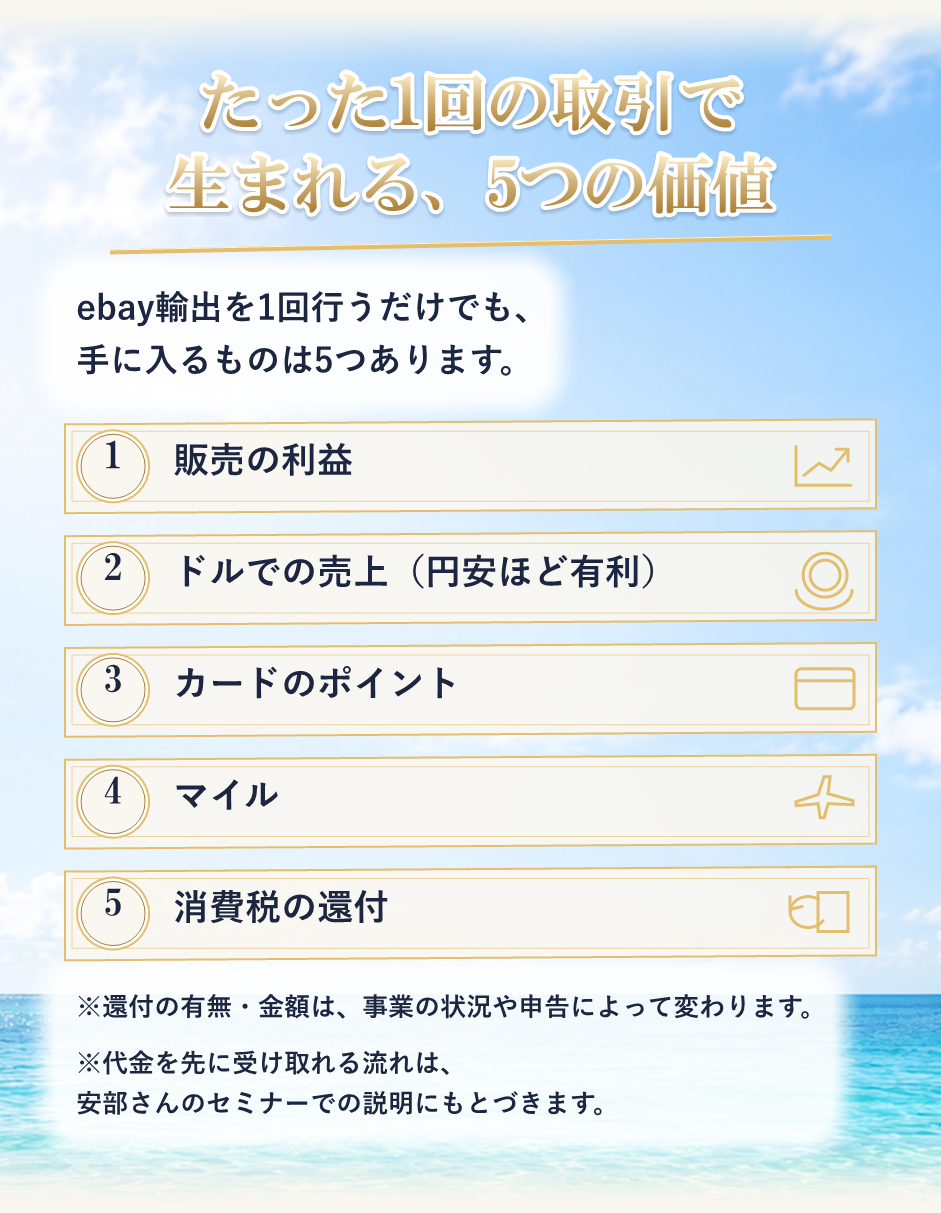
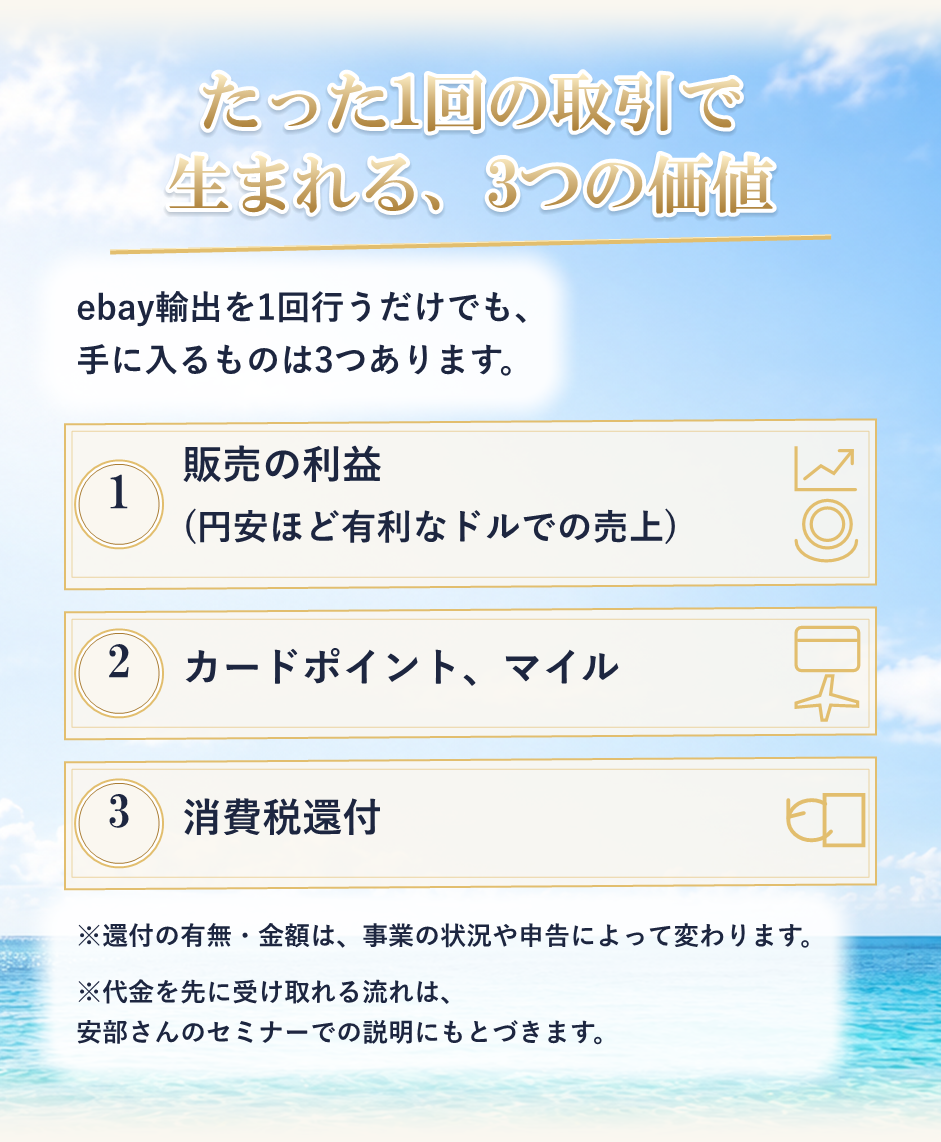
ebay-seminar-lp-2: 特典の表紙を入れる・5つの価値を3つに（05・14）

diff --git a/ebay-seminar-lp-2/index.html b/ebay-seminar-lp-2/index.html
@@ -6,7 +6,7 @@
 .v3 .cta-card{background:radial-gradient(ellipse at 4% 0%,#dceff8b0,transparent 45%),radial-gradient(ellipse at 95% 100%,#b8deec70,transparent 45%),#fbf6ee;border:1px solid #169aa66b;border-radius:18px 24px 20px 28px;box-shadow:0 0 16px 5px #169aa610}.v3 .cta h2{font-family:"Klee One","UD デジタル 教科書体 NK","Yu Mincho",serif;font-weight:600;color:#1b2f5b}.legal-note{padding:10px 24px 6px}.footer{padding:12px 22px 28px;text-align:center;font-size:12px;line-height:2.2;overflow-wrap:break-word}.footer a{color:inherit;text-underline-offset:4px}
 .floating-cta{position:fixed;left:50%;bottom:max(14px,env(safe-area-inset-bottom));transform:translateX(-50%);z-index:20;width:min(92vw,390px);display:block}.floating-cta[hidden]{display:none}
 @media(prefers-reduced-motion:reduce){html{scroll-behavior:auto}}
-</style></head><body class="v2"><main class="lp"><div class="hero"><img src="images/01-first-view-C5-03.png" alt="稼ぎながら、無料で世界を飛び回る！" width="941" height="1672" fetchpriority="high"><a class="fv-link" href="#form1" aria-label="無料でセミナーに参加する" style="left:8.820403825717323%;top:91.62679425837321%;width:82.35919234856536%;height:5.861244019138756%"></a></div><section class="cta" id="form1" aria-labelledby="heading1"><div class="cta-card"><h2 id="heading1" data-copy="CTA1-01">メールアドレスとLINE登録だけでOK！</h2><p class="note intro" data-copy="CTA1-02">※参加URLは、公式LINEでお届けします。</p><form action="#cta-link" method="get"><input data-copy="CTA1-03" type="email" name="email" required autocomplete="email" placeholder="メールアドレスを入力" aria-label="メールアドレスを入力"><button type="submit"><img src="images/cta-button_案2.png" alt="無料でセミナーに参加する" width="800" height="142" data-copy="CTA1-04"></button></form><p class="note" data-copy="CTA1-05">※ボタンを押すと、公式LINEの友だち追加の画面が開きます（パソコンの方はQRコードが表示されます）</p><p class="note free" data-copy="CTA1-06">※参加は無料です</p></div></section><img src="images/02-problem.png" alt="こんなこと、感じていませんか？" width="941" height="1417" class="section-image" decoding="async"><img src="images/03-numbers.png" alt="たとえば、毎月10万円をカードで払っても、貯まるのは1年で約12,000マイル。" width="941" height="1246" class="section-image" decoding="async"><img src="images/04-bridge.png" alt="円で買う側から、ドルで稼ぐ側へ。" width="941" height="1322" class="section-image" decoding="async"><img src="images/05-five-values.png" alt="たった1回の取引で生まれる、5つの価値" width="941" height="1213" class="section-image" decoding="async"><img src="images/06-walls-1.png" alt="物販は大変そう？そう思う方へ" width="941" height="1316" class="section-image" decoding="async"><img src="images/07-walls-2.png" alt="④ 出品が面倒" width="941" height="1009" class="section-image" decoding="async"><section class="cta" id="form2" aria-labelledby="heading2"><div class="cta-card"><h2 id="heading2" data-copy="CTA2-01">メールアドレスとLINE登録だけでOK！</h2><p class="note intro" data-copy="CTA2-02">※参加URLは、公式LINEでお届けします。</p><form action="#cta-link" method="get"><input data-copy="CTA2-03" type="email" name="email" required autocomplete="email" placeholder="メールアドレスを入力" aria-label="メールアドレスを入力"><button type="submit"><img src="images/cta-button_案2.png" alt="無料でセミナーに参加する" width="800" height="142" data-copy="CTA2-04"></button></form><p class="note" data-copy="CTA2-05">※ボタンを押すと、公式LINEの友だち追加の画面が開きます（パソコンの方はQRコードが表示されます）</p><p class="note free" data-copy="CTA2-06">※参加は無料です</p></div></section><img src="images/08-learn.png" alt="このセミナーで分かること" width="941" height="1564" class="section-image" decoding="async"><img src="images/09-for-whom.png" alt="こんな方のためのセミナーです" width="941" height="1355" class="section-image" decoding="async"><img src="images/10-instructor-1.png" alt="講師紹介" width="941" height="1527" class="section-image" decoding="async"><img src="images/11-instructor-2.png" alt="独自のAIシステムと実践型のサポート体制をつくり、未経験者でも段階的に成果を目指せる仕組みづくりに力を注いでいる。MBA（経営学修士）の知識を活かし、感覚だけに頼らず、データ分析・戦略・仕組み化の観点から指導している。" width="941" height="1199" class="section-image" decoding="async"><img src="images/12-instructor-masuda.png" alt="増田 和彦" width="941" height="1394" class="section-image" decoding="async"><img src="images/13-overview.png" alt="開催概要" width="941" height="1534" class="section-image" decoding="async"><img src="images/14-bonus.png" alt="参加特典" width="941" height="1150" class="section-image" decoding="async"><img src="images/15-steps.png" alt="参加までの流れ" width="941" height="1159" class="section-image" decoding="async"><section class="cta" id="form3" aria-labelledby="heading3"><div class="cta-card"><h2 id="heading3" data-copy="CTA3-01">メールアドレスとLINE登録だけでOK！</h2><p class="note intro" data-copy="CTA3-02">※参加URLは、公式LINEでお届けします。</p><form action="#cta-link" method="get"><input data-copy="CTA3-03" type="email" name="email" required autocomplete="email" placeholder="メールアドレスを入力" aria-label="メールアドレスを入力"><button type="submit"><img src="images/cta-button_案2.png" alt="無料でセミナーに参加する" width="800" height="142" data-copy="CTA3-04"></button></form><p class="note" data-copy="CTA3-05">※ボタンを押すと、公式LINEの友だち追加の画面が開きます（パソコンの方はQRコードが表示されます）</p><p class="note free" data-copy="CTA3-06">※参加は無料です</p></div></section><img src="images/16-faq-1.png" alt="よくある質問" width="941" height="1496" class="section-image" decoding="async"><img src="images/17-faq-2.png" alt="Q. セミナーで何かを買わされませんか？" width="941" height="1253" class="section-image" decoding="async"><img src="images/18-final-1.png" alt="最後に" width="941" height="1663" class="section-image" decoding="async"><img src="images/19-final-2.png" alt="まずは10月27日、話を聞くところから始めてみてください。" width="941" height="1001" class="section-image" decoding="async"><section class="cta" id="form4" aria-labelledby="heading4"><div class="cta-card"><h2 id="heading4" data-copy="CTA4-01">メールアドレスとLINE登録だけでOK！</h2><p class="note intro" data-copy="CTA4-02">※参加URLは、公式LINEでお届けします。</p><form action="#cta-link" method="get"><input data-copy="CTA4-03" type="email" name="email" required autocomplete="email" placeholder="メールアドレスを入力" aria-label="メールアドレスを入力"><button type="submit"><img src="images/cta-button_案2.png" alt="無料でセミナーに参加する" width="800" height="142" data-copy="CTA4-04"></button></form><p class="note" data-copy="CTA4-05">※ボタンを押すと、公式LINEの友だち追加の画面が開きます（パソコンの方はQRコードが表示されます）</p><p class="note free" data-copy="CTA4-06">※参加は無料です</p></div></section><p class="note legal-note" data-copy="NOTE-01">※ご紹介している実績は講師・受講生個人のものであり、成果を保証するものではありません。</p><footer class="footer" data-copy="FOOTER-01"><a href="#">特定商取引法に基づく表記</a>　｜　<a href="#">プライバシーポリシー</a></footer></main><a class="floating-cta" href="#form1" aria-label="無料でセミナーに参加する" hidden><img src="images/cta-button_案2.png" alt="" width="800" height="142" ></a><script>
+</style></head><body class="v2"><main class="lp"><div class="hero"><img src="images/01-first-view-C5-03.png" alt="稼ぎながら、無料で世界を飛び回る！" width="941" height="1672" fetchpriority="high"><a class="fv-link" href="#form1" aria-label="無料でセミナーに参加する" style="left:8.820403825717323%;top:91.62679425837321%;width:82.35919234856536%;height:5.861244019138756%"></a></div><section class="cta" id="form1" aria-labelledby="heading1"><div class="cta-card"><h2 id="heading1" data-copy="CTA1-01">メールアドレスとLINE登録だけでOK！</h2><p class="note intro" data-copy="CTA1-02">※参加URLは、公式LINEでお届けします。</p><form action="#cta-link" method="get"><input data-copy="CTA1-03" type="email" name="email" required autocomplete="email" placeholder="メールアドレスを入力" aria-label="メールアドレスを入力"><button type="submit"><img src="images/cta-button_案2.png" alt="無料でセミナーに参加する" width="800" height="142" data-copy="CTA1-04"></button></form><p class="note" data-copy="CTA1-05">※ボタンを押すと、公式LINEの友だち追加の画面が開きます（パソコンの方はQRコードが表示されます）</p><p class="note free" data-copy="CTA1-06">※参加は無料です</p></div></section><img src="images/02-problem.png" alt="こんなこと、感じていませんか？" width="941" height="1417" class="section-image" decoding="async"><img src="images/03-numbers.png" alt="たとえば、毎月10万円をカードで払っても、貯まるのは1年で約12,000マイル。" width="941" height="1246" class="section-image" decoding="async"><img src="images/04-bridge.png" alt="円で買う側から、ドルで稼ぐ側へ。" width="941" height="1322" class="section-image" decoding="async"><img src="images/05-five-values.png" alt="たった1回の取引で生まれる、3つの価値" width="941" height="1142" class="section-image" decoding="async"><img src="images/06-walls-1.png" alt="物販は大変そう？そう思う方へ" width="941" height="1316" class="section-image" decoding="async"><img src="images/07-walls-2.png" alt="④ 出品が面倒" width="941" height="1009" class="section-image" decoding="async"><section class="cta" id="form2" aria-labelledby="heading2"><div class="cta-card"><h2 id="heading2" data-copy="CTA2-01">メールアドレスとLINE登録だけでOK！</h2><p class="note intro" data-copy="CTA2-02">※参加URLは、公式LINEでお届けします。</p><form action="#cta-link" method="get"><input data-copy="CTA2-03" type="email" name="email" required autocomplete="email" placeholder="メールアドレスを入力" aria-label="メールアドレスを入力"><button type="submit"><img src="images/cta-button_案2.png" alt="無料でセミナーに参加する" width="800" height="142" data-copy="CTA2-04"></button></form><p class="note" data-copy="CTA2-05">※ボタンを押すと、公式LINEの友だち追加の画面が開きます（パソコンの方はQRコードが表示されます）</p><p class="note free" data-copy="CTA2-06">※参加は無料です</p></div></section><img src="images/08-learn.png" alt="このセミナーで分かること" width="941" height="1564" class="section-image" decoding="async"><img src="images/09-for-whom.png" alt="こんな方のためのセミナーです" width="941" height="1355" class="section-image" decoding="async"><img src="images/10-instructor-1.png" alt="講師紹介" width="941" height="1527" class="section-image" decoding="async"><img src="images/11-instructor-2.png" alt="独自のAIシステムと実践型のサポート体制をつくり、未経験者でも段階的に成果を目指せる仕組みづくりに力を注いでいる。MBA（経営学修士）の知識を活かし、感覚だけに頼らず、データ分析・戦略・仕組み化の観点から指導している。" width="941" height="1199" class="section-image" decoding="async"><img src="images/12-instructor-masuda.png" alt="増田 和彦" width="941" height="1394" class="section-image" decoding="async"><img src="images/13-overview.png" alt="開催概要" width="941" height="1534" class="section-image" decoding="async"><img src="images/14-bonus.png" alt="参加特典" width="941" height="1458" class="section-image" decoding="async"><img src="images/15-steps.png" alt="参加までの流れ" width="941" height="1159" class="section-image" decoding="async"><section class="cta" id="form3" aria-labelledby="heading3"><div class="cta-card"><h2 id="heading3" data-copy="CTA3-01">メールアドレスとLINE登録だけでOK！</h2><p class="note intro" data-copy="CTA3-02">※参加URLは、公式LINEでお届けします。</p><form action="#cta-link" method="get"><input data-copy="CTA3-03" type="email" name="email" required autocomplete="email" placeholder="メールアドレスを入力" aria-label="メールアドレスを入力"><button type="submit"><img src="images/cta-button_案2.png" alt="無料でセミナーに参加する" width="800" height="142" data-copy="CTA3-04"></button></form><p class="note" data-copy="CTA3-05">※ボタンを押すと、公式LINEの友だち追加の画面が開きます（パソコンの方はQRコードが表示されます）</p><p class="note free" data-copy="CTA3-06">※参加は無料です</p></div></section><img src="images/16-faq-1.png" alt="よくある質問" width="941" height="1496" class="section-image" decoding="async"><img src="images/17-faq-2.png" alt="Q. セミナーで何かを買わされませんか？" width="941" height="1253" class="section-image" decoding="async"><img src="images/18-final-1.png" alt="最後に" width="941" height="1663" class="section-image" decoding="async"><img src="images/19-final-2.png" alt="まずは10月27日、話を聞くところから始めてみてください。" width="941" height="1001" class="section-image" decoding="async"><section class="cta" id="form4" aria-labelledby="heading4"><div class="cta-card"><h2 id="heading4" data-copy="CTA4-01">メールアドレスとLINE登録だけでOK！</h2><p class="note intro" data-copy="CTA4-02">※参加URLは、公式LINEでお届けします。</p><form action="#cta-link" method="get"><input data-copy="CTA4-03" type="email" name="email" required autocomplete="email" placeholder="メールアドレスを入力" aria-label="メールアドレスを入力"><button type="submit"><img src="images/cta-button_案2.png" alt="無料でセミナーに参加する" width="800" height="142" data-copy="CTA4-04"></button></form><p class="note" data-copy="CTA4-05">※ボタンを押すと、公式LINEの友だち追加の画面が開きます（パソコンの方はQRコードが表示されます）</p><p class="note free" data-copy="CTA4-06">※参加は無料です</p></div></section><p class="note legal-note" data-copy="NOTE-01">※ご紹介している実績は講師・受講生個人のものであり、成果を保証するものではありません。</p><footer class="footer" data-copy="FOOTER-01"><a href="#">特定商取引法に基づく表記</a>　｜　<a href="#">プライバシーポリシー</a></footer></main><a class="floating-cta" href="#form1" aria-label="無料でセミナーに参加する" hidden><img src="images/cta-button_案2.png" alt="" width="800" height="142" ></a><script>
 (()=>{
  const sections=[...document.querySelectorAll('.cta')], floating=document.querySelector('.floating-cta');
  document.querySelectorAll('form').forEach(form=>form.addEventListener('submit',event=>event.preventDefault()));
